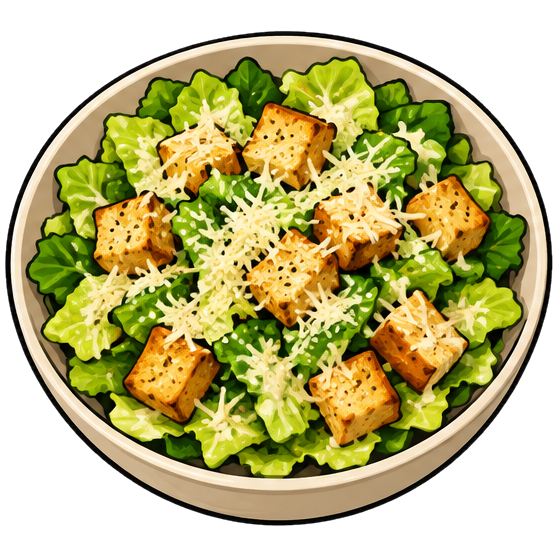
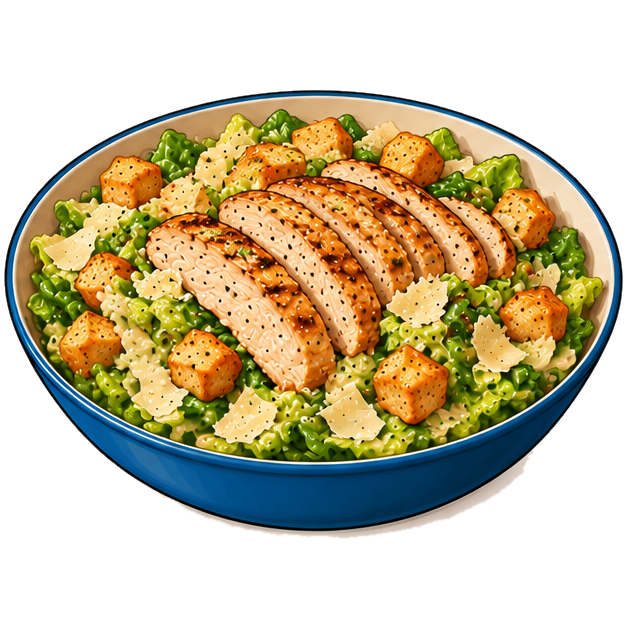
Add dish art sheet 12: lessons 48-50 and Caesar redo; all 50 done
Claude-Session: https://claude.ai/code/session_01VPEv9eNgj4aGwg5xJiv4c3

diff --git a/tools/crop-dish-sheet.py b/tools/crop-dish-sheet.py
@@ -2,6 +2,7 @@ import sys, numpy as np
 # Crops a sheet of dish illustrations on a white background into one
 # transparent square PNG per dish, in reading order (top row first).
 # Usage: python3 tools/crop-dish-sheet.py SHEET OUTDIR name1,name2,... [erode]
+# A name of '-' skips that dish. tools/dish-sheets.txt lists every sheet.
 from PIL import Image, ImageDraw, ImageFilter
 from collections import deque
 src, outdir, names = sys.argv[1], sys.argv[2], sys.argv[3].split(',')
@@ -42,6 +43,7 @@ print(len(comps), 'dishes found')
 alpha = Image.fromarray((fg*255).astype('uint8')).filter(ImageFilter.GaussianBlur(0.8))
 rgba = im.copy(); rgba.putalpha(alpha)
 for c, name in zip(comps, names):
+    if name == '-': continue  # superseded by a later sheet
     y0,x0,y1,x1,n = c; pad = 6 + (int(sys.argv[4]) if len(sys.argv)>4 else 9)//2
     box = (max(0,x0-pad), max(0,y0-pad), min(W,x1+pad), min(H,y1+pad))
     own = Image.fromarray(((lab==n)*255).astype('uint8')).resize((w*s,h*s), Image.NEAREST).crop((0,0,W,H)).filter(ImageFilter.MaxFilter((int(sys.argv[4]) if len(sys.argv)>4 else 9) + 6))

diff --git a/content/images/LICENSES.md b/content/images/LICENSES.md
@@ -10,7 +10,7 @@ use in this app. Cropped from the source sheets in `source/` with
 
 | Source sheet | Dishes |
 |---|---|
-| `source/sheet-01-unit1.png` | `dishes/01-spring-rolls.png`, `dishes/02-fattoush.png`, `dishes/03-fish-tacos.png`, `dishes/26-chicken-caesar.png`, `dishes/27-smash-burgers.png` |
+| `source/sheet-01-unit1.png` | `dishes/01-spring-rolls.png`, `dishes/02-fattoush.png`, `dishes/03-fish-tacos.png`, `dishes/27-smash-burgers.png` (its Caesar was replaced by sheet 12) |
 | `source/sheet-02-unit2.png` | `dishes/04-shakshuka.png`, `dishes/05-chicken-fried-rice.png`, `dishes/06-oyakodon.png`, `dishes/07-chicken-adobo.png`, `dishes/08-cacio-e-pepe.png` |
 | `source/sheet-03-unit3.png` | `dishes/09-chana-masala.png`, `dishes/10-misir-wot.png`, `dishes/11-chicken-tagine.png`, `dishes/12-butter-chicken.png`, `dishes/13-jerk-chicken.png` |
 | `source/sheet-04-units4-5.png` | `dishes/14-beef-bulgogi.png`, `dishes/15-lomo-saltado.png`, `dishes/16-chicken-tinga-tacos.png`, `dishes/17-pupusas.png` |
@@ -21,3 +21,4 @@ use in this app. Cropped from the source sheets in `source/` with
 | `source/sheet-09-baking.png` | `dishes/40-blueberry-muffins.png`, `dishes/41-skillet-cornbread.png`, `dishes/42-cinnamon-rolls.png`, `dishes/43-granola.png` |
 | `source/sheet-10-units4-5.png` | `dishes/36-chicken-noodle-soup.png`, `dishes/37-philly-cheesesteak.png`, `dishes/38-buttermilk-biscuits.png`, `dishes/39-biscuits-and-gravy.png` |
 | `source/sheet-11-unit6.png` | `dishes/44-meatloaf.png`, `dishes/45-roast-chicken.png`, `dishes/46-chicken-pot-pie.png`, `dishes/47-pot-roast.png` |
+| `source/sheet-12-finale.png` | `dishes/48-southern-fried-chicken.png`, `dishes/49-brown-butter-cookies.png`, `dishes/50-apple-pie.png`, `dishes/26-chicken-caesar.png` |

diff --git a/docs/build-log.md b/docs/build-log.md
@@ -410,3 +410,18 @@ Owner rulings on open questions:
 - Gave the owner the redo list: 14, 26, 27, 34, 35, 37, with 28 and 32
   optional.
 - 47 of 50 dishes now have art. Still to make: 48, 49, 50.
+
+---
+
+## 23. 2026-10-22 — Dish art complete: all 50
+
+- Added sheet 12 from the owner: 48 Southern fried chicken, 49 brown butter
+  cookies, 50 apple pie, and a redo of 26 chicken Caesar with sliced chicken on
+  top. The new Caesar replaces the one from sheet 1.
+- Checked for unclean foods: none seen.
+- Every lesson now has dish art in `content/images/dishes/`.
+- Added `tools/dish-sheets.txt`, which lists every sheet and which dish each
+  position is, with '-' for a dish a later sheet replaced. Re-cropping all the
+  sheets from it can no longer overwrite a redo with an old picture.
+  `tools/crop-dish-sheet.py` skips '-'.
+- Redos still open with the owner: 14, 27, 34, 35, 37 (28 and 32 optional).

diff --git a/README.md b/README.md
@@ -4,10 +4,11 @@ A cooking course app for kids: each lesson pairs one skill with one real dish,
 then runs the cook with checklists, step-by-step cook mode, and timers.
 Multi-family, on Cloudflare.
 
-**Latest build log entry:** [22. 2026-10-22 — Dish art sheet 11](docs/build-log.md#22-2026-10-22--dish-art-sheet-11)
+**Latest build log entry:** [23. 2026-10-22 — Dish art complete: all 50](docs/build-log.md#23-2026-10-22--dish-art-complete-all-50)
 
 ## Current features
 
 No app yet. The plan is in `cooking-class-app-PLAN.md`.
 
 - **Theme picker mockup** (`mockups/theme-picker.html`): four candidate themes with a sample lesson, so the kids can pick one.
+- **Dish illustrations** (`content/images/dishes/`): one picture for each of the 50 lessons.
